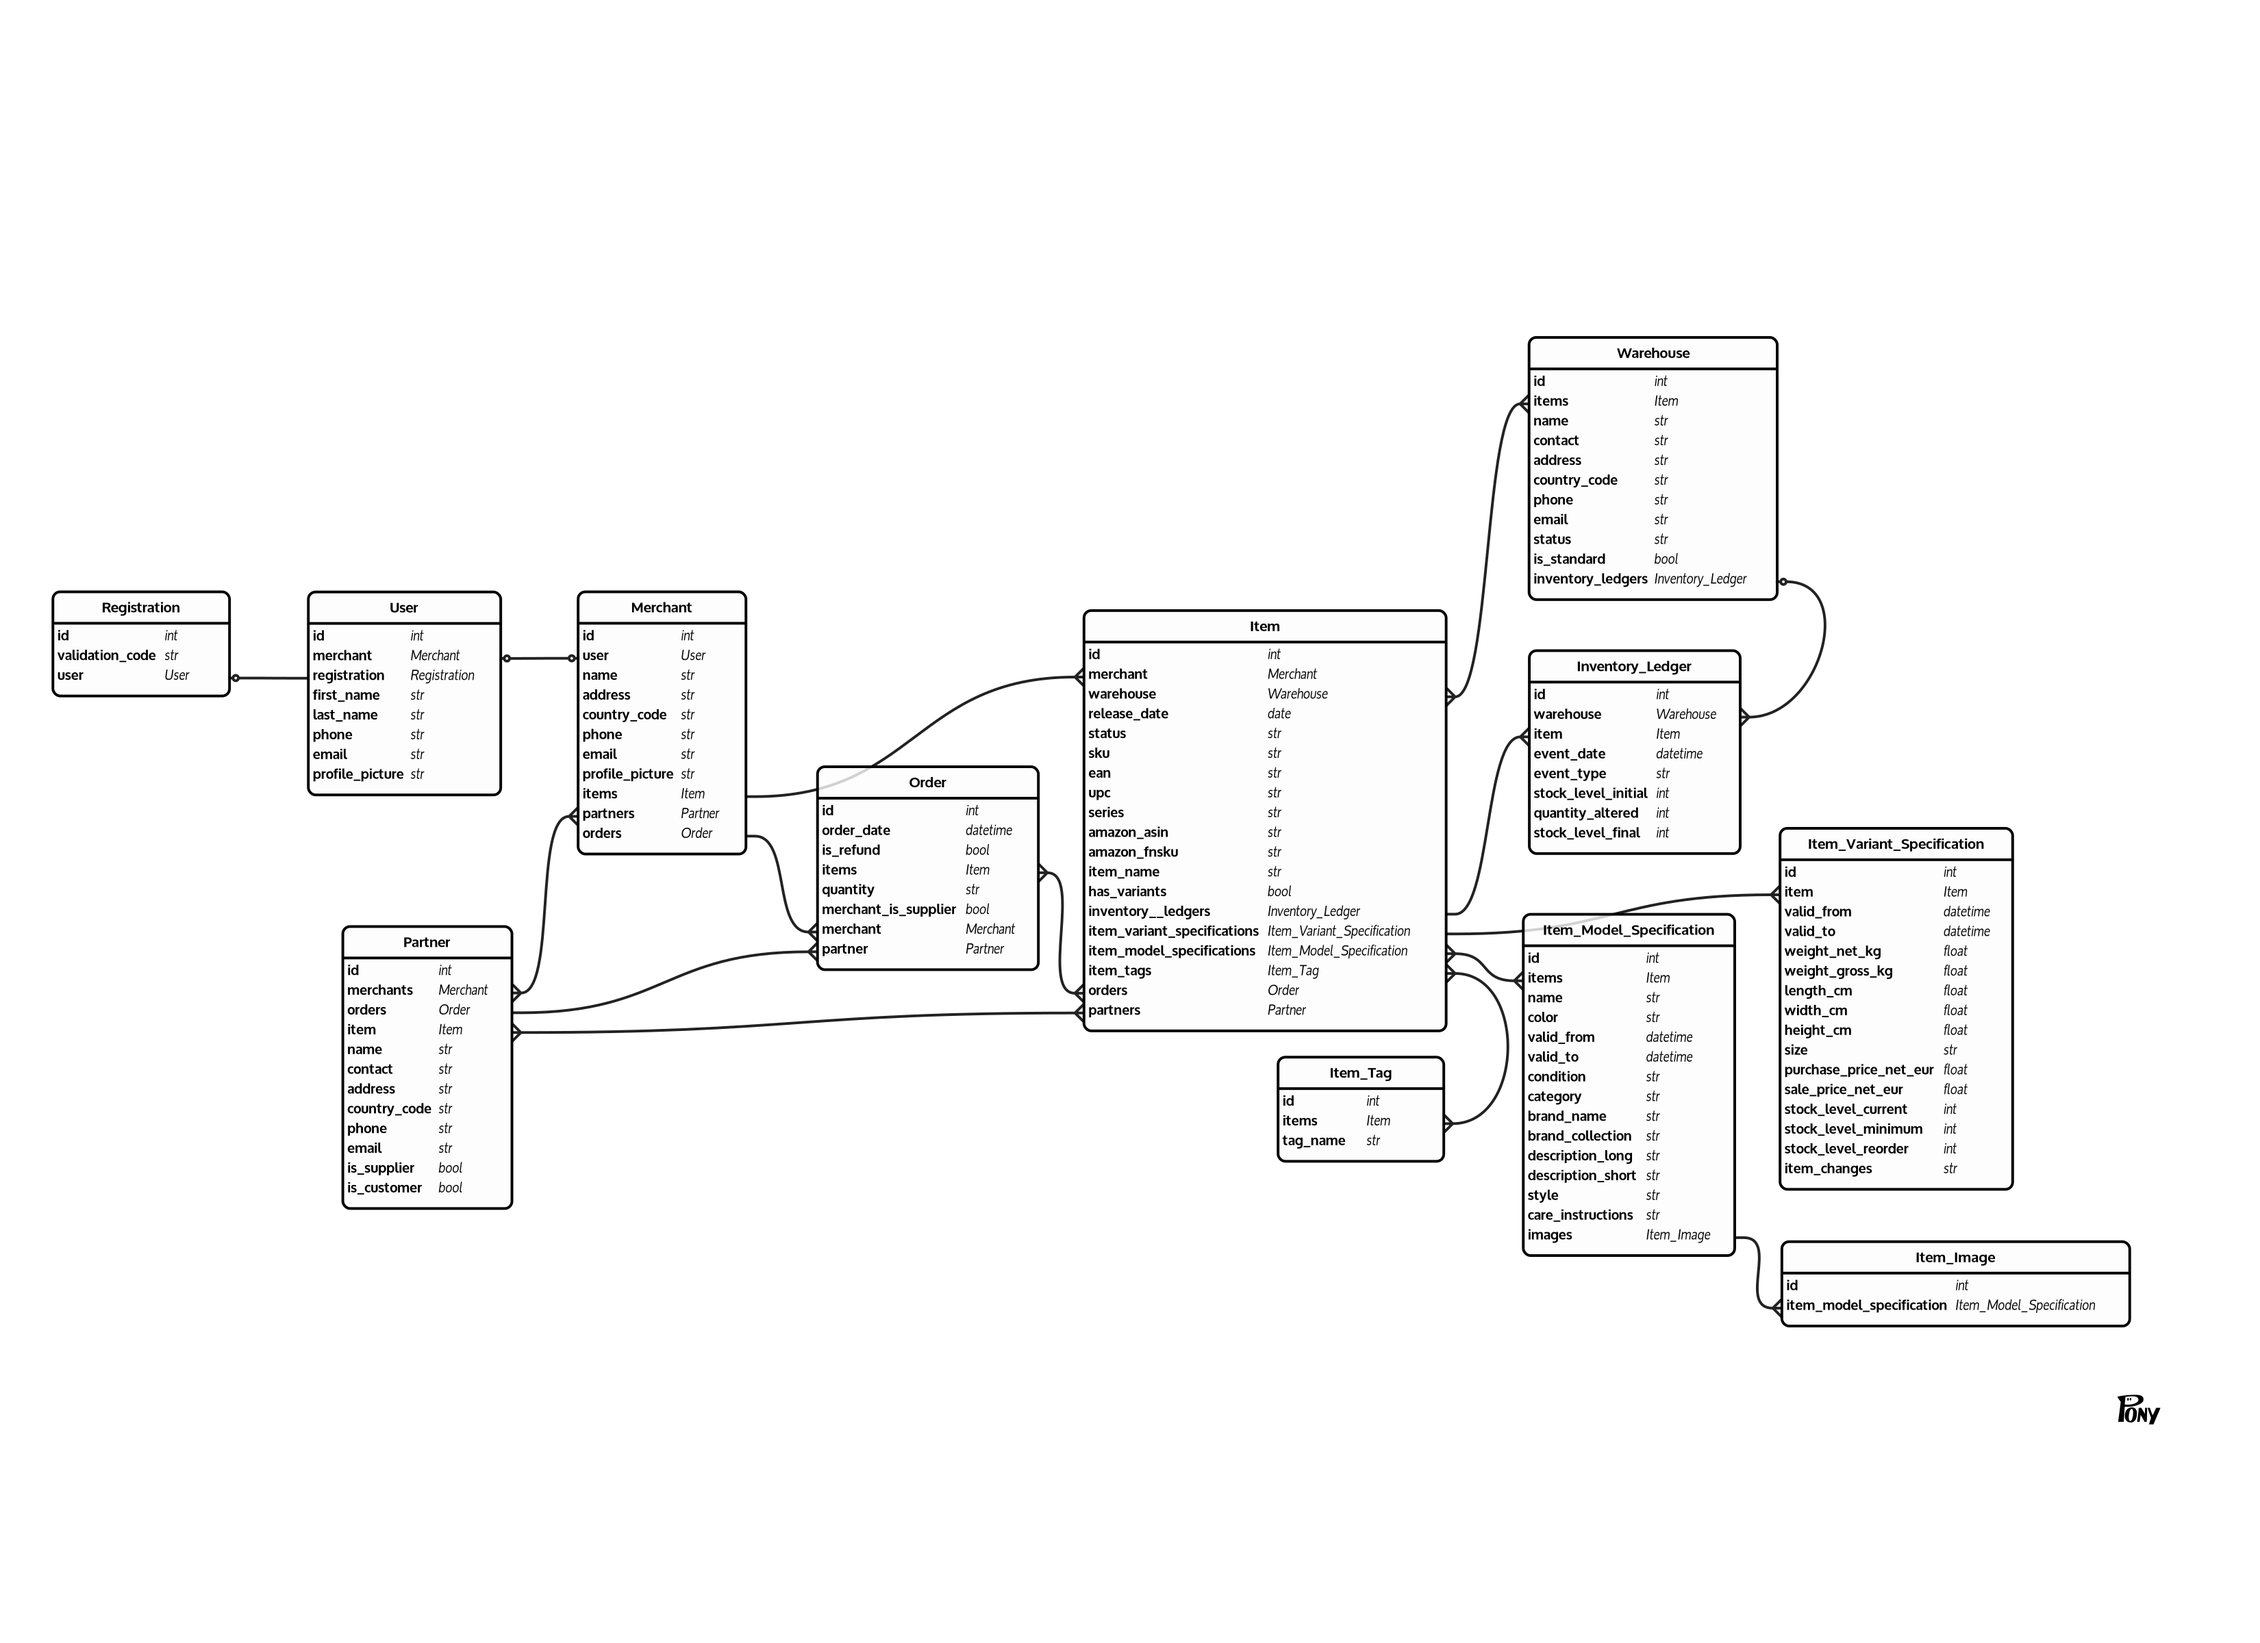
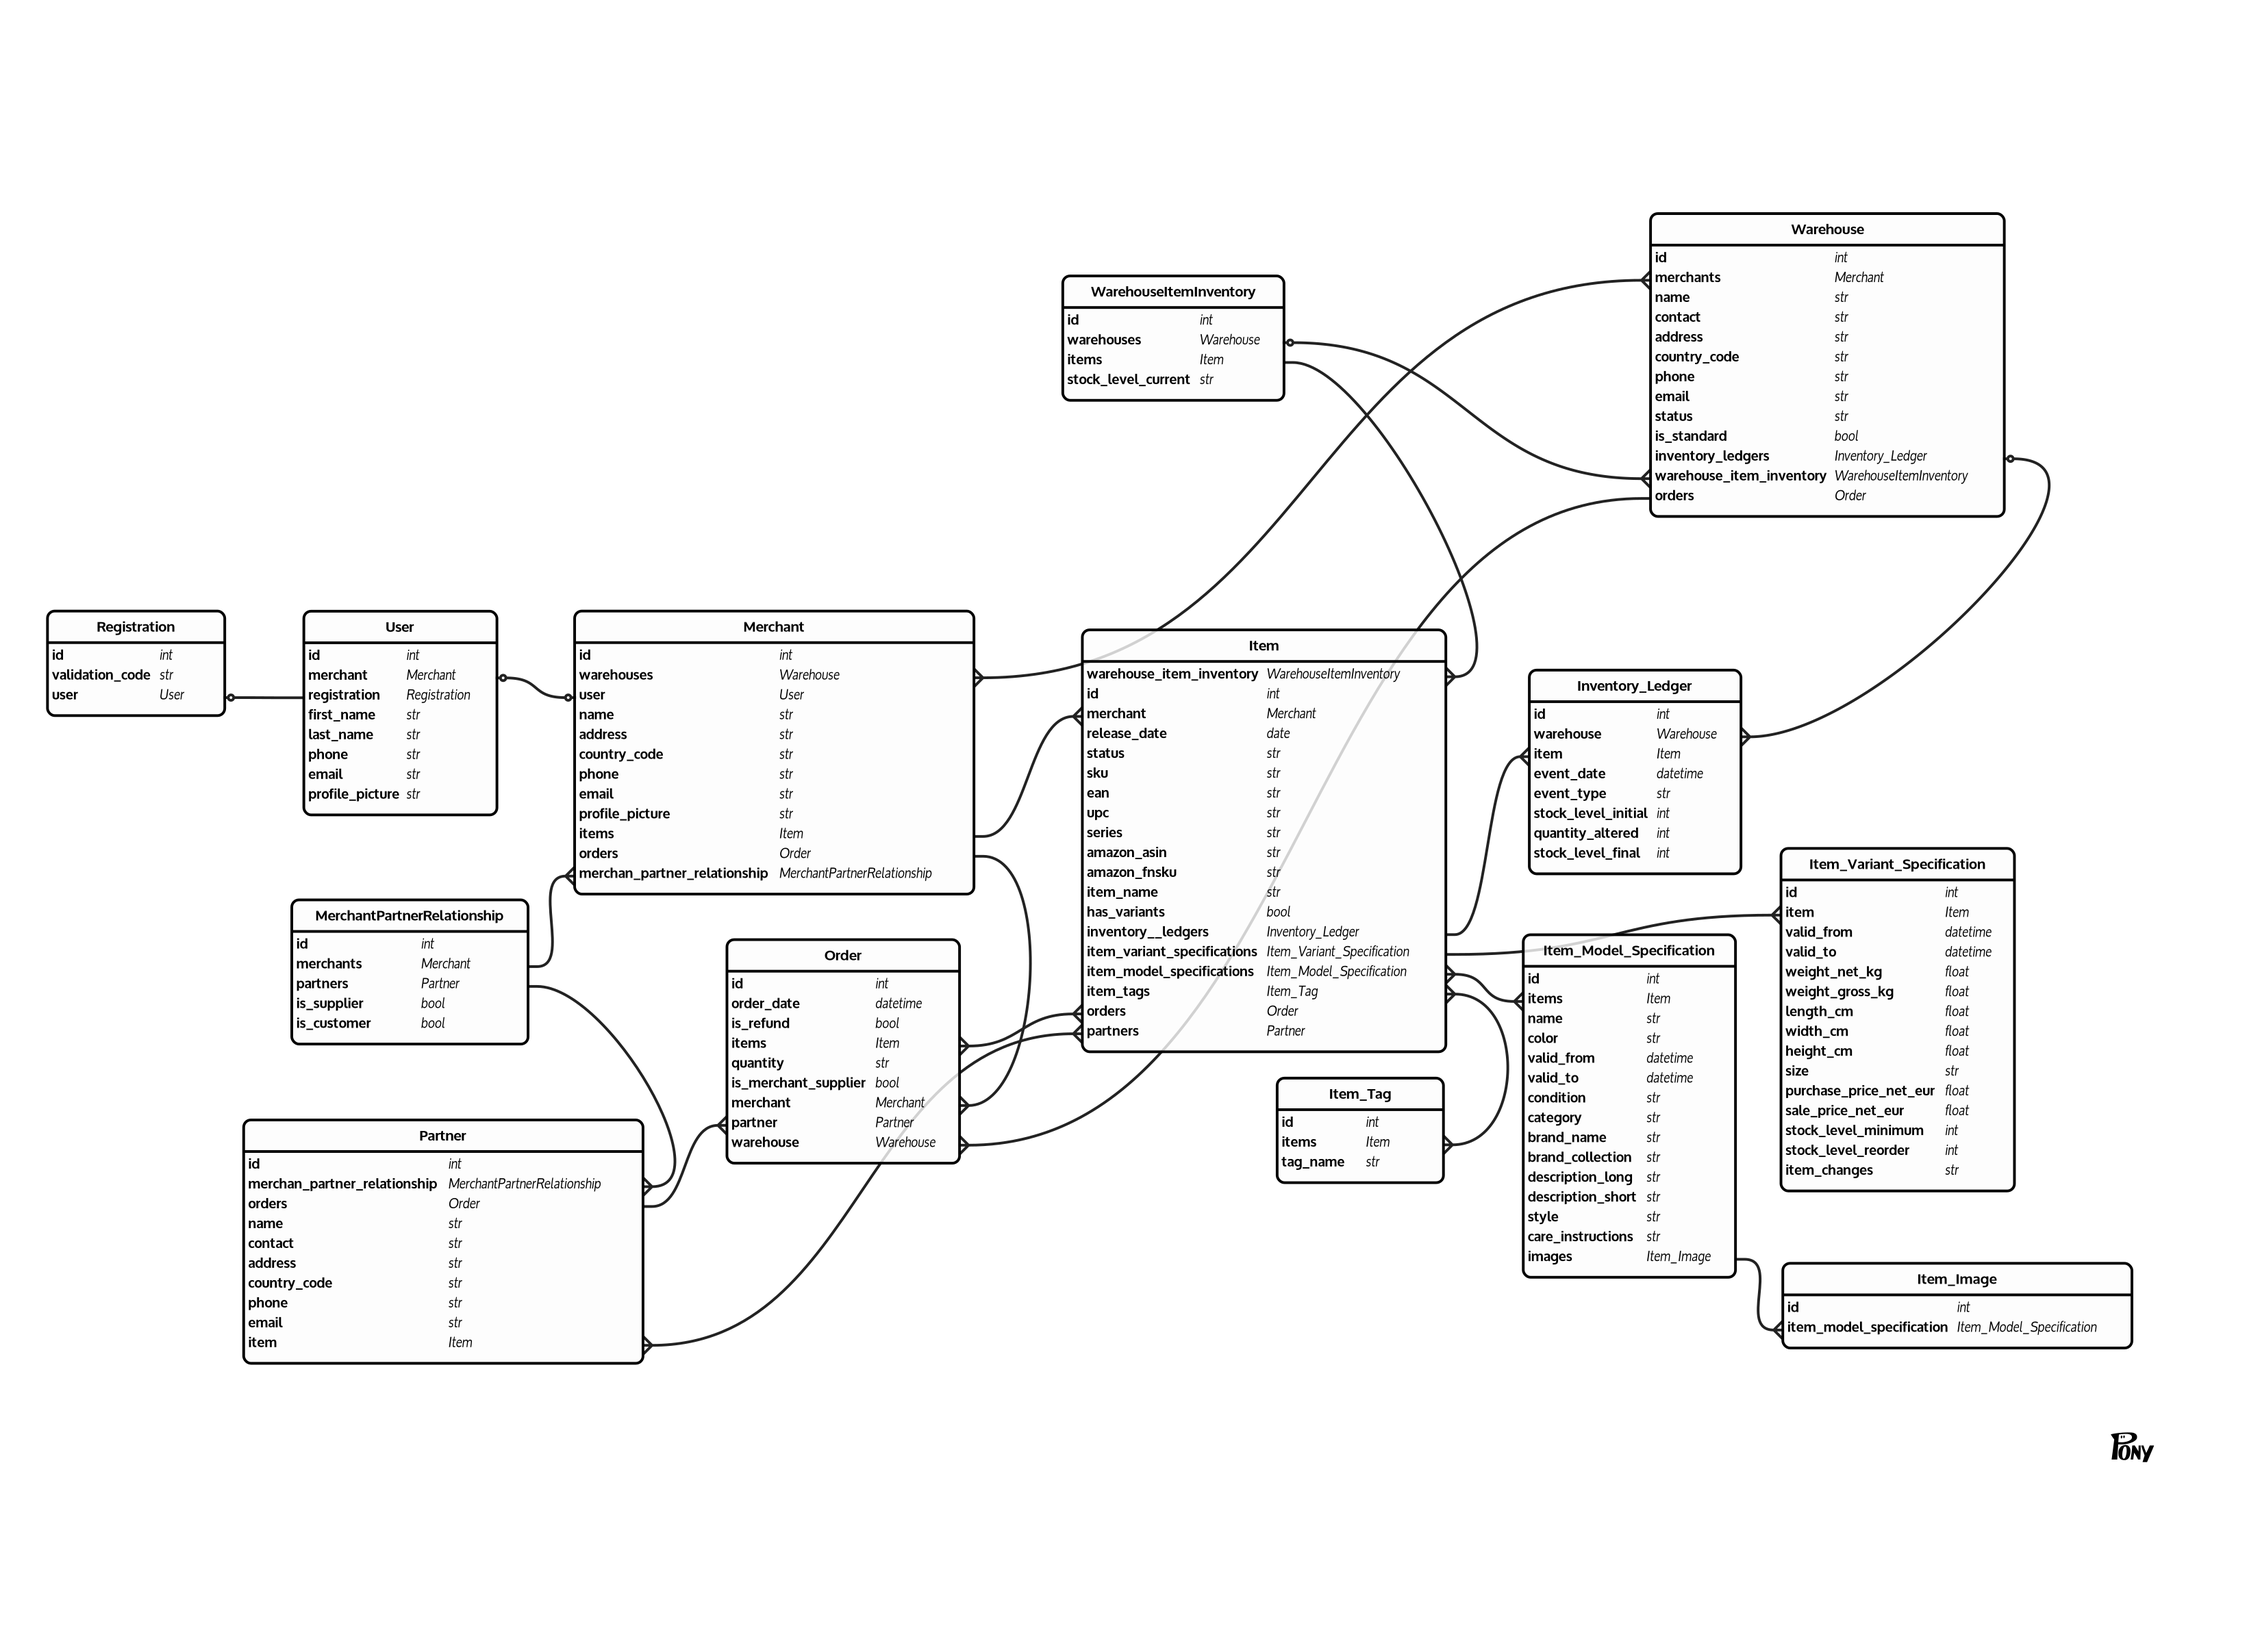
pony udpated model specifcations added model variant corrected

Changed region(s): [[0.0, 0.125, 0.9364, 0.8438], [0.4682, 0.1562, 0.6242, 0.25], [0.9364, 0.8438, 0.9676, 0.9062]]

diff --git a/backend/item_model_specification/views.py b/backend/item_model_specification/views.py
@@ -1,1 +1,47 @@
-# Create your views here.
+from rest_framework.generics import ListAPIView, CreateAPIView, UpdateAPIView
+from rest_framework.response import Response
+from item.models import Item
+from item_model_specification.models import ItemModelSpecification
+from item_model_specification.serializers import ItemModelSpecificationSerializer
+
+
+class ListItemModelView(ListAPIView):
+    """
+    get:
+    List all item model specifications for an item
+
+    # subtitle
+    List all item model specifications for an item in date time order of valid_from
+    """
+    queryset = ItemModelSpecification.objects.all().order_by('name')
+    serializer_class = ItemModelSpecificationSerializer
+    lookup_url_kwarg = 'item_id'
+
+
+class CreateItemModelView(CreateAPIView):
+    """
+    post:
+    Create a new item model and assigns it to an item
+
+    # subtitle
+    Create a new item model and assigns it to an item
+    """
+    queryset = Item.objects.all()
+    serializer_class = ItemModelSpecificationSerializer
+
+    def create(self, request, *args, **kwargs):
+        serializer = self.get_serializer(data=request.data)
+        serializer.is_valid(raise_exception=True)
+        item = Item.objects.filter(pk=self.kwargs.get('item_id'))
+        name_exists = item.filter(item_model_specifications__name=self.request.data['name']).exists()
+        if not name_exists:
+            serializer.save(items=item)
+            return Response(serializer.data)
+        else:
+            return Response({'status': 'Model name already exists in item'})
+
+class UpdateItemModelView(UpdateAPIView):
+
+    queryset = ItemModelSpecification.objects.all()
+    serializer_class = ItemModelSpecificationSerializer
+    lookup_url_kwarg = "item_model_id"

diff --git a/backend/item_variant_specification/views.py b/backend/item_variant_specification/views.py
@@ -1,4 +1,4 @@
-from rest_framework.generics import ListAPIView, CreateAPIView
+from rest_framework.generics import ListAPIView, CreateAPIView, UpdateAPIView, RetrieveAPIView
 from item_variant_specification.models import ItemVariantSpecification
 from item_variant_specification.serializers import ItemVariantSpecificationSerializer
 from item.models import Item
@@ -12,7 +12,7 @@ class ListItemVariantView(ListAPIView):
     # subtitle
     List all item variant specifications for an item in date time order of valid_from
     """
-    queryset = ItemVariantSpecification.objects.all()
+    queryset = ItemVariantSpecification.objects.all().order_by('valid_from')
     serializer_class = ItemVariantSpecificationSerializer
     lookup_url_kwarg = 'item_id'
 
@@ -31,3 +31,25 @@ class CreateItemVariantView(CreateAPIView):
     def perform_create(self, serializer):
         item = Item.objects.get(pk=self.kwargs.get('item_id'))
         serializer.save(item=item)
+
+
+class UpdateItemVariantView(UpdateAPIView):
+
+    queryset = ItemVariantSpecification.objects.all()
+    serializer_class = ItemVariantSpecificationSerializer
+    lookup_url_kwarg = "item_variant_id"
+
+
+class CurrentItemVariantView(ListAPIView):
+
+    serializer_class = ItemVariantSpecificationSerializer
+    lookup_url_kwarg = 'item_id'
+
+    def get_queryset(self):
+        item = Item.objects.get(pk=self.kwargs.get('item_id'))
+        item_variant = item.item_variant_specifications.latest('valid_to').id
+        item_variant_queryset = ItemVariantSpecification.objects.filter(id=item_variant)
+        return item_variant_queryset
+
+
+

diff --git a/backend/item_variant_specification/urls.py b/backend/item_variant_specification/urls.py
@@ -1,8 +1,11 @@
 from django.urls import path
-from item_variant_specification.views import ListItemVariantView, CreateItemVariantView
+from item_variant_specification.views import ListItemVariantView, CreateItemVariantView, UpdateItemVariantView, \
+    CurrentItemVariantView
 
 urlpatterns = [
     # backend/api/items/variants/
     path('<int:item_id>/', ListItemVariantView.as_view()),
-    path('new/<int:item_id>/', CreateItemVariantView.as_view())
+    path('new/<int:item_id>/', CreateItemVariantView.as_view()),
+    path('update/<int:item_variant_id>/', UpdateItemVariantView.as_view()),
+    path('current/<int:item_id>/', CurrentItemVariantView.as_view())
 ]

diff --git a/backend/item_model_specification/serializers.py b/backend/item_model_specification/serializers.py
@@ -1,9 +1,12 @@
 from rest_framework import serializers
+from item.serializers import ItemSerializer
+from item_image.serializers import ItemImageSerializer
 from item_model_specification.models import ItemModelSpecification
 
 
 class ItemModelSpecificationSerializer(serializers.ModelSerializer):
-
+    items = ItemSerializer(read_only=True, many=True)
+    images = ItemImageSerializer(read_only=True, many=True)
     class Meta:
         model = ItemModelSpecification
         fields = '__all__'

diff --git a/backend/project/urls.py b/backend/project/urls.py
@@ -34,9 +34,10 @@ urlpatterns = [
     path('backend/api/inventory_ledgers/', include('inventory_ledger.urls')),
 
     path('backend/api/items/', include('item.urls')),
-    path('backend/api/items/variants/', include('item_variant_specification.urls')),
 
     path('backend/api/items/variants/', include('item_variant_specification.urls')),
+
+    path('backend/api/items/models/', include('item_model_specification.urls')),
 
     path('backend/api/merchants/', include('merchant.urls')),
 

diff --git a/backend/item_model_specification/urls.py b/backend/item_model_specification/urls.py
@@ -1,0 +1,8 @@
+from django.urls import path
+from item_model_specification.views import ListItemModelView, CreateItemModelView, UpdateItemModelView
+urlpatterns = [
+    # backend/api/items/models/
+    path('<int:item_id>/', ListItemModelView.as_view()),
+    path('new/<int:item_id>/', CreateItemModelView.as_view()),
+    path('update/<int:item_model_id>/', UpdateItemModelView.as_view())
+]
